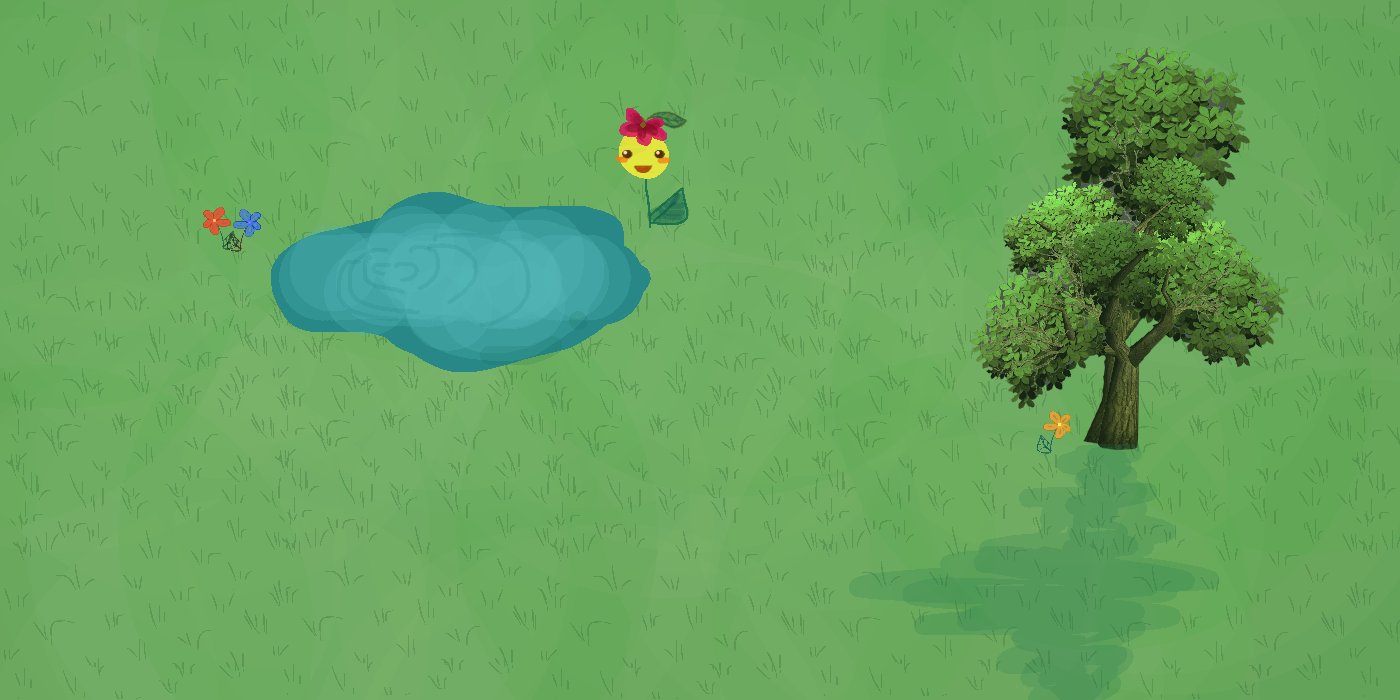
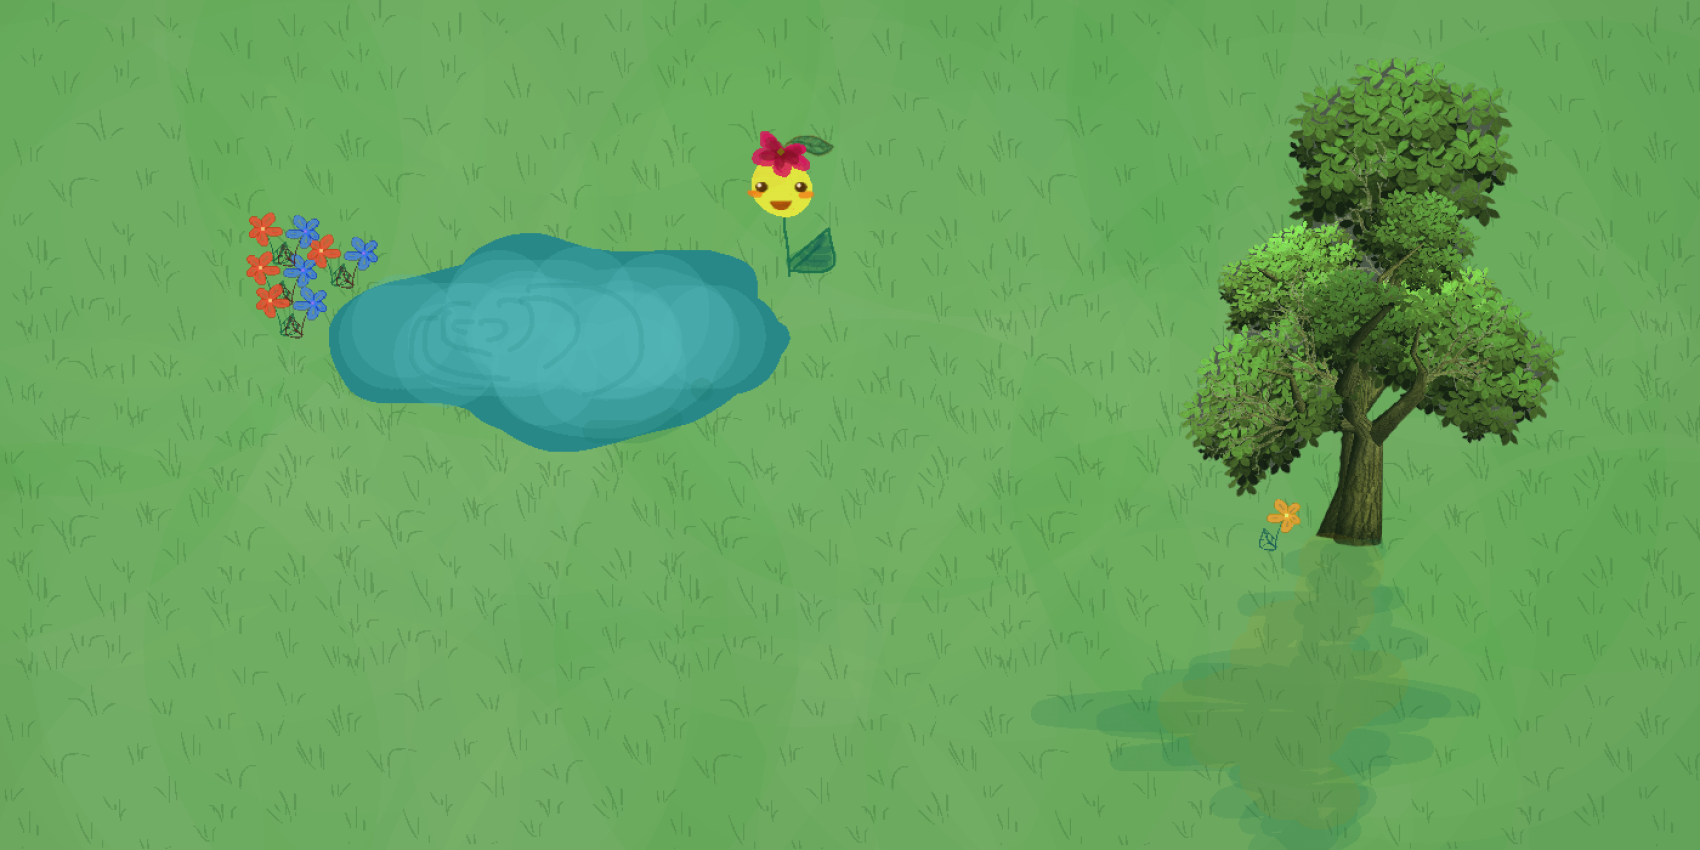
added camera pan and changed image size

diff --git a/js/game.js b/js/game.js
@@ -13,8 +13,6 @@ Game.init = function(){
 
 Game.preload = function() {
     game.load.tilemap('map', 'assets/map/example_map.json', null, Phaser.Tilemap.TILED_JSON);
-    //game.load.spritesheet('tileset', 'assets/map/tilesheet.png',32,32);
-    // game.load.image('sprite','assets/sprites/sprite.png');
     game.load.image('orange','assets/sprites/orange.png');
     game.load.image('squishy','assets/sprites/squishy.png');
     game.load.image('classic','assets/map/source.gif');
@@ -24,17 +22,24 @@ Game.preload = function() {
     game.load.spritesheet('snow', 'assets/sprites/snow.png', 1400, 1400, 22);
     game.load.spritesheet('rain', 'assets/sprites/rain.png', 1400, 720, 8);
     game.load.spritesheet('tumble', 'assets/sprites/tumble.png', 1400, 200, 11);
+    game.load.image('test', 'assets/map/test.jpg');
       
 };
 
 Game.create = function(){
     Game.playerMap = {};
     game.physics.startSystem(Phaser.Physics.P2JS);
-    var hmm = game.add.image(0, 0, room);
-    hmm.scale.setTo(1,1);
+    if (room=='classic'){
+        game.add.tileSprite(0,0,2048,2048, 'classic');
+        game.world.setBounds(0,0,2048,2048);
+    }
+    else{
+    game.add.tileSprite(0,0,1700, 850, room);
+    game.world.setBounds(0,0,1700,850);
+    }
     cursors = game.input.keyboard.createCursorKeys();
     if(room == 'summer') {
-        var tumble = game.add.image(0,0,'tumble');
+        var tumble = game.add.image(0,50,'tumble');
         var action = tumble.animations.add('tumbling');
         tumble.animations.play('tumbling', 5, true);
     }
@@ -158,6 +163,11 @@ Game.nudgePlayer = function(id, direction){
     {
         sprite.body.setZeroVelocity();
     }
+
+    if(id ==myId) {
+        // camera mvmt
+
+    }
 };
 
 Game.updatePlayers = function(playerMap) {
@@ -177,3 +187,6 @@ Game.removePlayer = function(id){
     delete Game.playerMap[id];
 };
 
+// Game.render = function(){
+//     game.debug.cameraInfo(game.camera, 32, 32);
+// }

diff --git a/play.html b/play.html
@@ -3,11 +3,13 @@
 <head>
 	<link rel="shortcut icon" type="image/png" href="/assets/sprites/orangesmol.png"/>
     <link href="vendor/bootstrap/css/bootstrap.min.css" rel="stylesheet">
+    <link rel="stylesheet" type="text/css" href="css/style.css">
     <meta charset="UTF-8">
     <script src="/socket.io/socket.io.js"></script>
     <script type="text/javascript" src="js/phaser.min.js"></script>
     <title>Squishy Orange</title>
 </head>
+
 <body>
     <div class='container-fluid'>
         <div class='row'>
@@ -17,8 +19,9 @@
             <div class='col-lg-3 my-auto'>
                 <h3> Game Mode: <a id='gameMode'></a></h3>
                 <h4> Your ID: <a id='myId'></a></h3>
+
                 <div id="startButton">
-                    <button class="btn btn-primary btn-lg" onClick='start()'>Start!</button>
+                    <button class="btn btn-danger btn-lg"  onClick='start()'>Start!</button>
                 </div>
                 <div id='warnings'></div>
                 <h5>Scores:</h5>

diff --git a/js/client.js b/js/client.js
@@ -31,6 +31,7 @@ Client.socket.on('allplayers',function(data){
 
         if(data[i].id == myId) {
             sprite.body.onBeginContact.add(player_coll, this); 
+            game.camera.follow(sprite);
         }
     }
 

diff --git a/css/style.css b/css/style.css
@@ -1,0 +1,4 @@
+body{
+	background-color: #ffa434
+
+}
